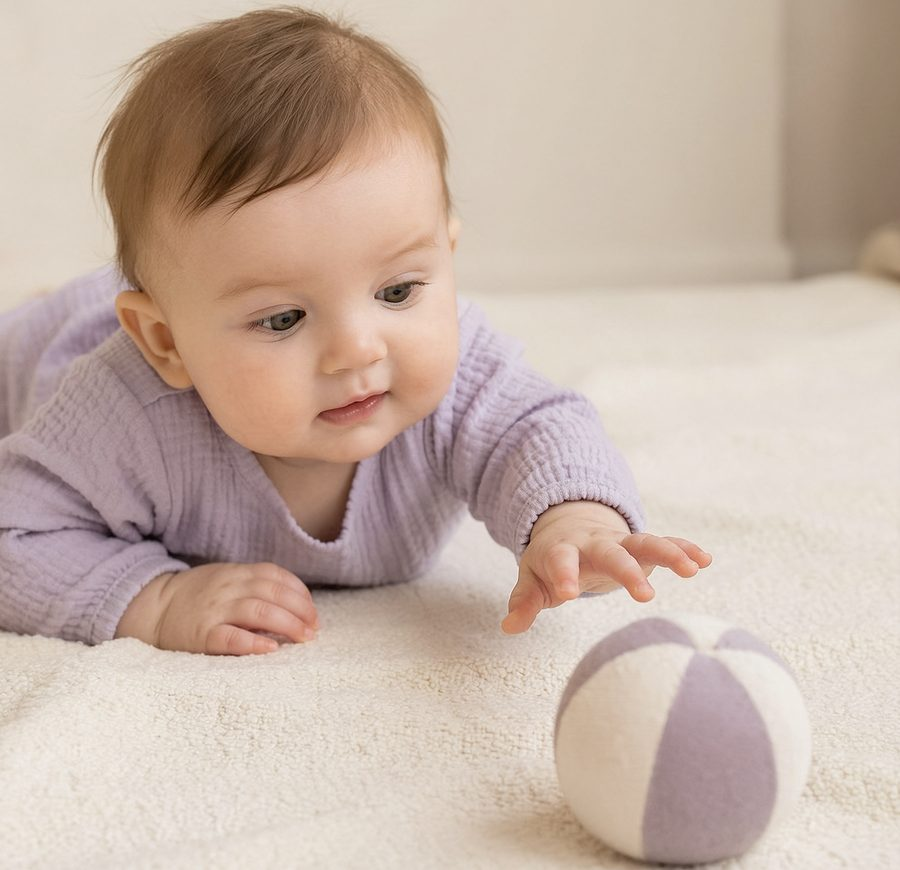
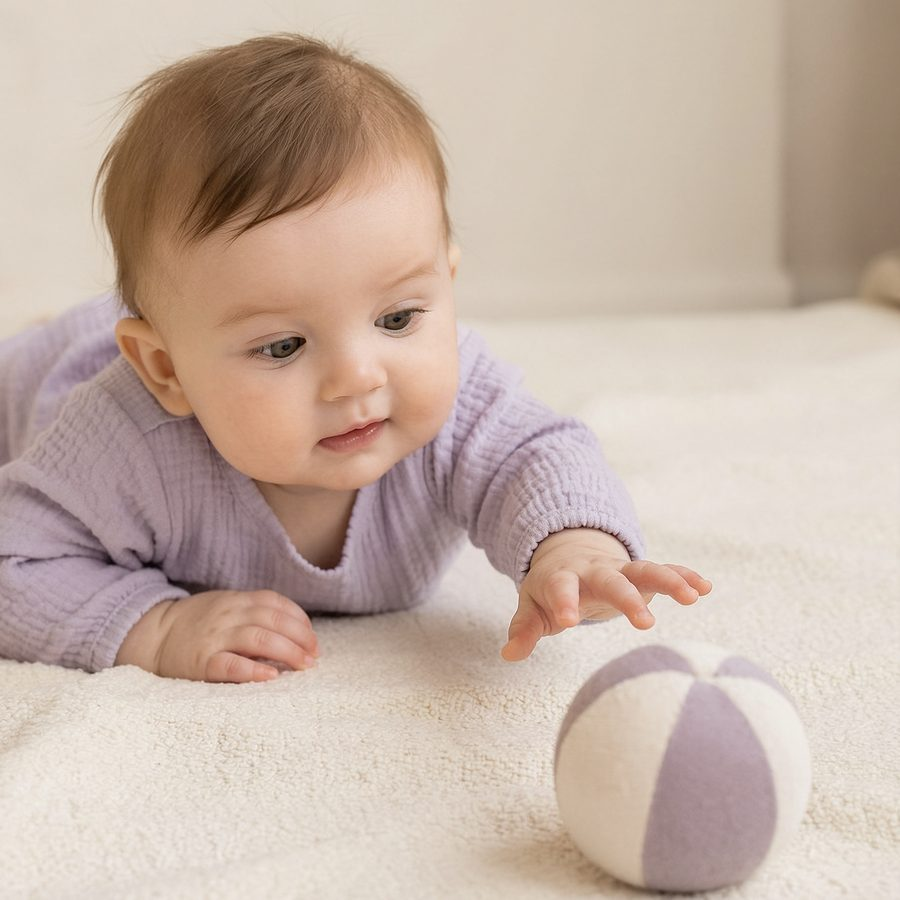
Preview: fix photo framing; Try this together photos on every 6-month area page
- Top card photo is a square cropped to keep the whole head and ball, pins re-placed
- Milestone photos show the whole photo instead of a square crop
- Social, Talking, Thinking and Movement try cards use Ahead's own photos

Claude-Session: https://claude.ai/code/session_01SSLJSHgnDtQr6sxNNifTZw

diff --git a/js/hub-categories.js b/js/hub-categories.js
@@ -92,10 +92,10 @@
     // The story, with a scene of this age.
     // Nov 18 preview: a real photo of the age's story, labeled with the story's own steps (the labels replace the lead line, so it lives in one place).
     // Nov 18 (Safety's pattern: show, don't tell): a photo set in the card, with pins on what she's doing. Each pin opens its milestone.
-    const PHOTO = { 6: { src: 'assets/dev/reaching-6.jpg?v=1', alt: 'A baby on her tummy reaching for a soft ball', lead: 'Every reach is a little experiment.', pins: [
-      { t: 'Spots the ball', x: 53, y: 21, side: 'r', go: "openPage('development-domain:6:Thinking')" },
-      { t: 'Reaches out', x: 66, y: 61, side: 'r', go: "devFocusSkill('reaches-to-grab-a-toy');openPage('development-domain:6:Thinking')" },
-      { t: 'Finds out what it does', x: 74, y: 86, side: 'l', go: "devFocusSkill('puts-things-in-mouth-to-explore');openPage('development-domain:6:Thinking')" } ] } }[ref];
+    const PHOTO = { 6: { src: 'assets/dev/reaching-6.jpg?v=2', alt: 'A baby on her tummy reaching for a soft ball', lead: 'Every reach is a little experiment.', pins: [
+      { t: 'Spots the ball', x: 53, y: 32, side: 'r', go: "openPage('development-domain:6:Thinking')" },
+      { t: 'Reaches out', x: 63, y: 66, side: 'r', go: "devFocusSkill('reaches-to-grab-a-toy');openPage('development-domain:6:Thinking')" },
+      { t: 'Finds out what it does', x: 64, y: 85, side: 'l', go: "devFocusSkill('puts-things-in-mouth-to-explore');openPage('development-domain:6:Thinking')" } ] } }[ref];
     const photoHtml = PHOTO ? `<div class="dvx-photo sf-photo"><img src="${PHOTO.src}" alt="${PHOTO.alt}">${PHOTO.pins.map(q => `<button class="sf-pin sf-pin-${q.side}" style="left:${q.x}%;top:${q.y}%" onclick="${q.go}"><i></i><span>${T(q.t)}</span></button>`).join('')}</div>` : '';
     let b = css + (PHOTO ? `<section class="dev-hero dvx-hero has-photo"><p class="dev-hero-eyebrow">${F(STAGE_TABLE.Development.stages[devKeys.indexOf(ref)].label)}</p><h1>${T(IN.t)}</h1><p class="dev-hero-lead">${T(PHOTO.lead)}</p>${photoHtml}</section>`
       : `<section class="dev-hero dvx-hero"><p class="dev-hero-eyebrow">${F(STAGE_TABLE.Development.stages[devKeys.indexOf(ref)].label)}</p><h1>${T(IN.t)}</h1><p class="dev-hero-lead">${T(IN.lead)}</p><div class="dvx-art" aria-hidden="true">${window.devScene ? devScene(ref) : (window.devHeroArt ? devHeroArt(ref) : '')}</div></section>`);
@@ -445,7 +445,7 @@
     return `<p class="hub-context">${esc(`${meta.title} · by ${when}`)}</p><h1>${T(hd[0])}</h1><p class="hub-lead">${T(hd[1])}</p>`;
   };
   function developmentDomainPageSigns(ref, domain, rows, big, tc, meta, age, h) {
-    const tryCard = `<section class="hub-card dev-try"><span class="hub-card-head"><b>${F('Try this together')}</b></span><button class="dev-try-row" onclick="openPage('chg:Development:d:signs')"><span class="dev-idea-art dev-signs-art">${h.art('signs', 'Development')}</span><span class="hub-row-copy"><b>${F('Teach a few simple signs')}</b><small>${F('More, eat, milk and all done, so Maya can tell you before {s} can say it')}</small></span><span class="hub-chev" aria-hidden="true">›</span></button></section>`;
+    const tryCard = `<section class="hub-card dev-try"><span class="hub-card-head"><b>${F('Try this together')}</b></span><button class="dev-try-row" onclick="openPage('chg:Development:d:signs')"><span class="dev-idea-art dev-signs-art"><img class="dev-idea-photo" src="assets/dev/play-signs.jpg?v=1" alt=""></span><span class="hub-row-copy"><b>${F('Teach a few simple signs')}</b><small>${F('More, eat, milk and all done, so Maya can tell you before {s} can say it')}</small></span><span class="hub-chev" aria-hidden="true">›</span></button></section>`;
     const call = `<p class="dev-call">${F(earlyBday() ? 'Maya was born early, so it’s normal to reach these closer to {p} adjusted age. Call sooner if Maya loses a skill {s} had.' : `Not all of these by ${ref >= 12 ? 'the first birthday' : ref + ' months'}? Mention it at {p} next checkup. Call sooner if Maya loses a skill {s} had.`)}</p>`;
     const credit = rows.includes('dev-see') ? `<p class="dev-credit">${F('Photos and videos: Source CDC, free at cdc.gov. The CDC doesn’t endorse Ahead.')}</p>` : '';
     return `<div class="quiet-category hub-page hub-detail dev-area-page is-${domain}" data-overview="Development" style="${yearTheme('Development')}${tc ? `;--area:${tc[0]};--area-ink:${tc[1]}` : ''}">${detailPageTop('Development')}<div class="dev-area-head${areaPhoto(ref, domain) ? ' has-photo' : ''}">${!areaPhoto(ref, domain) && window.devTileArt ? `<span class="dev-area-head-art">${devTileArt(domain, ref)}</span>` : ''}${devAreaHead(ref, domain, meta, age)}${areaPhoto(ref, domain)}</div><p class="dev-sub">${F(`Working on now, by ${age}`)}</p><div class="hub-ticks">${rows}</div>${big}${tryCard}${call}${credit}</div>`;
@@ -470,7 +470,10 @@
     // Try this together: on Movement, the idea that helps with the big question; elsewhere, an idea for one of these skills.
     const move = domain === 'Movement' && window.devMoveIdea ? devMoveIdea(ref) : null;
     const act = !move && devAreaIdea(ref, domain);
-    const pic = move ? move.art : act && window.devPlayArt ? devPlayArt(act.id) : '';
+    // Nov 18: Ahead's own photo for each area's play idea where one exists (keyed by idea id).
+    const IDEA_PHOTO = { 'supported-reach': 'play-toy-beside-knee', 'peek-face': 'play-peekaboo', 'two-hands': 'play-two-hands', };
+    const ideaId = move ? move.id : act ? act.id : '';
+    const pic = IDEA_PHOTO[ideaId] ? `<img class="dev-idea-photo" src="assets/dev/${IDEA_PHOTO[ideaId]}.jpg?v=1" alt="">` : move ? move.art : act && window.devPlayArt ? devPlayArt(act.id) : '';
     // From 6 months, Communication's idea is baby signs: a way to help Maya say what {s} {want|wants} before the words come.
     if (domain === 'Talking' && ref >= 6) return developmentDomainPageSigns(ref, domain, rows, big, tc, meta, age, h);
     const tryCard = move || act ? `<section class="hub-card dev-try"><span class="hub-card-head"><b>${F('Try this together')}</b></span><button class="dev-try-row" onclick="openPage('${move ? `chg:Development:d:move:${ref}` : `chg:Development:d:idea:${ref}:${act.id}`}')">${pic ? `<span class="dev-idea-art">${pic}</span>` : ''}<span class="hub-row-copy"><b>${F(move ? move.title : act.title)}</b><small>${move ? F(move.why) : playLine(act)}</small></span><span class="hub-chev" aria-hidden="true">›</span></button></section>` : '';

diff --git a/index.html b/index.html
@@ -15,7 +15,7 @@
 <link rel="stylesheet" href="css/outings-look.css?v=1113e">
 <link rel="stylesheet" href="css/childcare-look.css"><link rel="stylesheet" href="css/care-card.css">
 <link rel="stylesheet" href="css/care-v2.css?v=1117x">
-<link rel="stylesheet" href="css/year-ahead.css?v=1115c"><link rel="stylesheet" href="css/subpage-color.css"><style>#main .you-avatar.has-photo{overflow:hidden;padding:0}#main .you-avatar.has-photo img{width:100%;height:100%;object-fit:cover;display:block}</style><link rel="stylesheet" href="css/stages-nav.css"><link rel="stylesheet" href="css/home-cards.css"><link rel="stylesheet" href="css/home-glance.css?v=1117g"><link rel="stylesheet" href="css/one-app.css"><link rel="stylesheet" href="css/month-story.css"><link rel="stylesheet" href="css/guides-v2.css?v=1"><link rel="stylesheet" href="css/home-card-clean.css?v=3"><link rel="stylesheet" href="css/dev-photo.css?v=10"></head>
+<link rel="stylesheet" href="css/year-ahead.css?v=1115c"><link rel="stylesheet" href="css/subpage-color.css"><style>#main .you-avatar.has-photo{overflow:hidden;padding:0}#main .you-avatar.has-photo img{width:100%;height:100%;object-fit:cover;display:block}</style><link rel="stylesheet" href="css/stages-nav.css"><link rel="stylesheet" href="css/home-cards.css"><link rel="stylesheet" href="css/home-glance.css?v=1117g"><link rel="stylesheet" href="css/one-app.css"><link rel="stylesheet" href="css/month-story.css"><link rel="stylesheet" href="css/guides-v2.css?v=1"><link rel="stylesheet" href="css/home-card-clean.css?v=3"><link rel="stylesheet" href="css/dev-photo.css?v=12"></head>
 <body><div id="shell"><header class="top"><button class="brand" onclick="if(profile&&profile.dob)navigate('home')" aria-label="Ahead home">ahead<span class="dot">.</span></button><button id="profileButton" class="profile" hidden onclick="navigate('profile')" aria-label="Baby profile and check-ins">M</button></header><main id="main" class="page"><div class="app-loading" role="status">Getting your guide ready…</div><noscript><style>.app-loading{display:none}</style><p>Ahead needs JavaScript to open your guide. Enable it in your browser, then reload this page.</p></noscript></main><nav id="nav" class="nav" hidden aria-label="Main navigation"><button class="active" onclick="navigate('home')" aria-current="page"><svg viewBox="0 0 24 24" fill="none" stroke="currentColor" stroke-width="1.5" stroke-linecap="round" stroke-linejoin="round" aria-hidden="true"><path d="m3 10 9-7 9 7v10H6V10M9 20v-7h6v7"/></svg>Home</button><button class="" onclick="navigate('categories')" ><svg viewBox="0 0 24 24" fill="none" stroke="currentColor" stroke-width="1.5" stroke-linecap="round" stroke-linejoin="round" aria-hidden="true"><circle cx="12" cy="12" r="9"/><path d="m16 8-3 5-5 3 3-5Z"/></svg>Guides</button><button class="" onclick="navigate('timeline')" ><svg viewBox="0 0 24 24" fill="none" stroke="currentColor" stroke-width="1.5" stroke-linecap="round" stroke-linejoin="round" aria-hidden="true"><circle cx="12" cy="12" r="9"/><path d="M12 6v6l4 3"/></svg>Memories</button></nav></div>
 <script src="js/storage.js"></script>
 <script src="js/changes-data.js"></script>
@@ -30,14 +30,14 @@
 <script src="js/welcome.js"></script>
 <script src="js/hub-art.js?v=1117q"></script>
 <script src="js/hub.js?v=1117u"></script>
-<script src="js/hub-categories.js?v=1118y"></script>
+<script src="js/hub-categories.js?v=1119a"></script>
   <script src="js/hub-pages.js?v=1113e"></script>
 <script src="js/stage-timeline.js?v=1113e"></script>
 <script src="js/out-and-about.js?v=1115i"></script>
 <script src="js/care-card-render.js"></script><script src="js/childcare.js?v=1114x"></script>
 <script src="js/dev-play-art.js"></script>
 <script src="js/dev-scenes.js?v=1113e"></script>
-<script src="js/dev-play.js?v=1118x"></script>
+<script src="js/dev-play.js?v=1118z"></script>
 <script src="js/next.js?v=1113e"></script>
 <script src="js/memories.js"></script>
 <script src="js/share-story.js"></script>

diff --git a/css/dev-photo.css b/css/dev-photo.css
@@ -7,15 +7,19 @@
 #main .dvx-ages button.is-now:not(.is-on)::after{content:"";position:absolute;top:5px;right:9px;width:6px;height:6px;border-radius:50%;background:#7a5aa6}
 /* Ahead's own milestone photos: no CDC caption */
 #main .dev-photo.is-own img{border-radius:16px;width:100%;height:auto;display:block}
-#main .dev-photo.is-own img{aspect-ratio:1/1;object-fit:cover}
+#main .dev-photo.is-own{text-align:center}
+#main .dev-photo.is-own img{width:auto!important;max-width:100%;max-height:340px;margin:0 auto}
 #main .dvx-try-art.is-photo{background:none}
 #main .dvx-try-art.is-photo img{width:100%;height:100%;object-fit:cover;object-position:50% 60%;display:block}
 /* Development's top card in Safety's pattern: photo set in the card, pins on what she's doing */
 #main .dvx-hero.has-photo{min-height:0;padding-bottom:16px}
 #main .dvx-hero.has-photo .dev-hero-lead{margin-bottom:0}
 #main .dvx-photo.sf-photo{box-shadow:0 6px 18px #5b4e8f22}
-#main .dvx-photo.sf-photo img{object-position:50% 70%}
+#main .dvx-photo.sf-photo{aspect-ratio:1/1}
+#main .dvx-photo.sf-photo img{object-position:50% 50%}
 #main .dvx-photo .sf-pin span{color:#3d3352}
 /* Area pages: photo set in the top card, like Safety */
 #main .dev-area-head.has-photo .dev-area-photo{margin:14px 0 0}
 #main .dev-area-photo .sf-pin span{color:#3d3352}
+#main .dev-idea-art:has(.dev-idea-photo){background:none!important;overflow:hidden}
+#main .dev-idea-photo{width:100%;height:100%;object-fit:cover;display:block;border-radius:inherit}

diff --git a/js/dev-play.js b/js/dev-play.js
@@ -61,7 +61,7 @@
     const open = !box.hidden;
     if (!open && !box.innerHTML) {
       const m = (typeof DEV_EXAMPLE_LINKS !== 'undefined' ? DEV_EXAMPLE_LINKS : {})[key];
-      if (OWN_PHOTO[key]) box.innerHTML = `<figure class="dev-photo is-own"><img src="assets/dev/${OWN_PHOTO[key]}.jpg?v=1" style="object-position:50% ${OWN_POS[OWN_PHOTO[key]] || 45}%" alt=""${btn.dataset.title || ''}" loading="lazy"></figure>`;
+      if (OWN_PHOTO[key]) box.innerHTML = `<figure class="dev-photo is-own"><img src="assets/dev/${OWN_PHOTO[key]}.jpg?v=1" alt=""${btn.dataset.title || ''}" loading="lazy"></figure>`;
       else if (m && m.type === 'video') { const id = (m.href.match(/[?&]v=([\w-]{11})/) || [])[1]; box.innerHTML = id ? hubEmbed(id, btn.dataset.title || 'What it looks like', 'CDC') : ''; }
       else if (m) box.innerHTML = `<figure class="dev-photo"><img src="${m.href}" alt="${btn.dataset.title || ''}" loading="lazy"><figcaption>Photo · CDC</figcaption></figure>`;
     }
